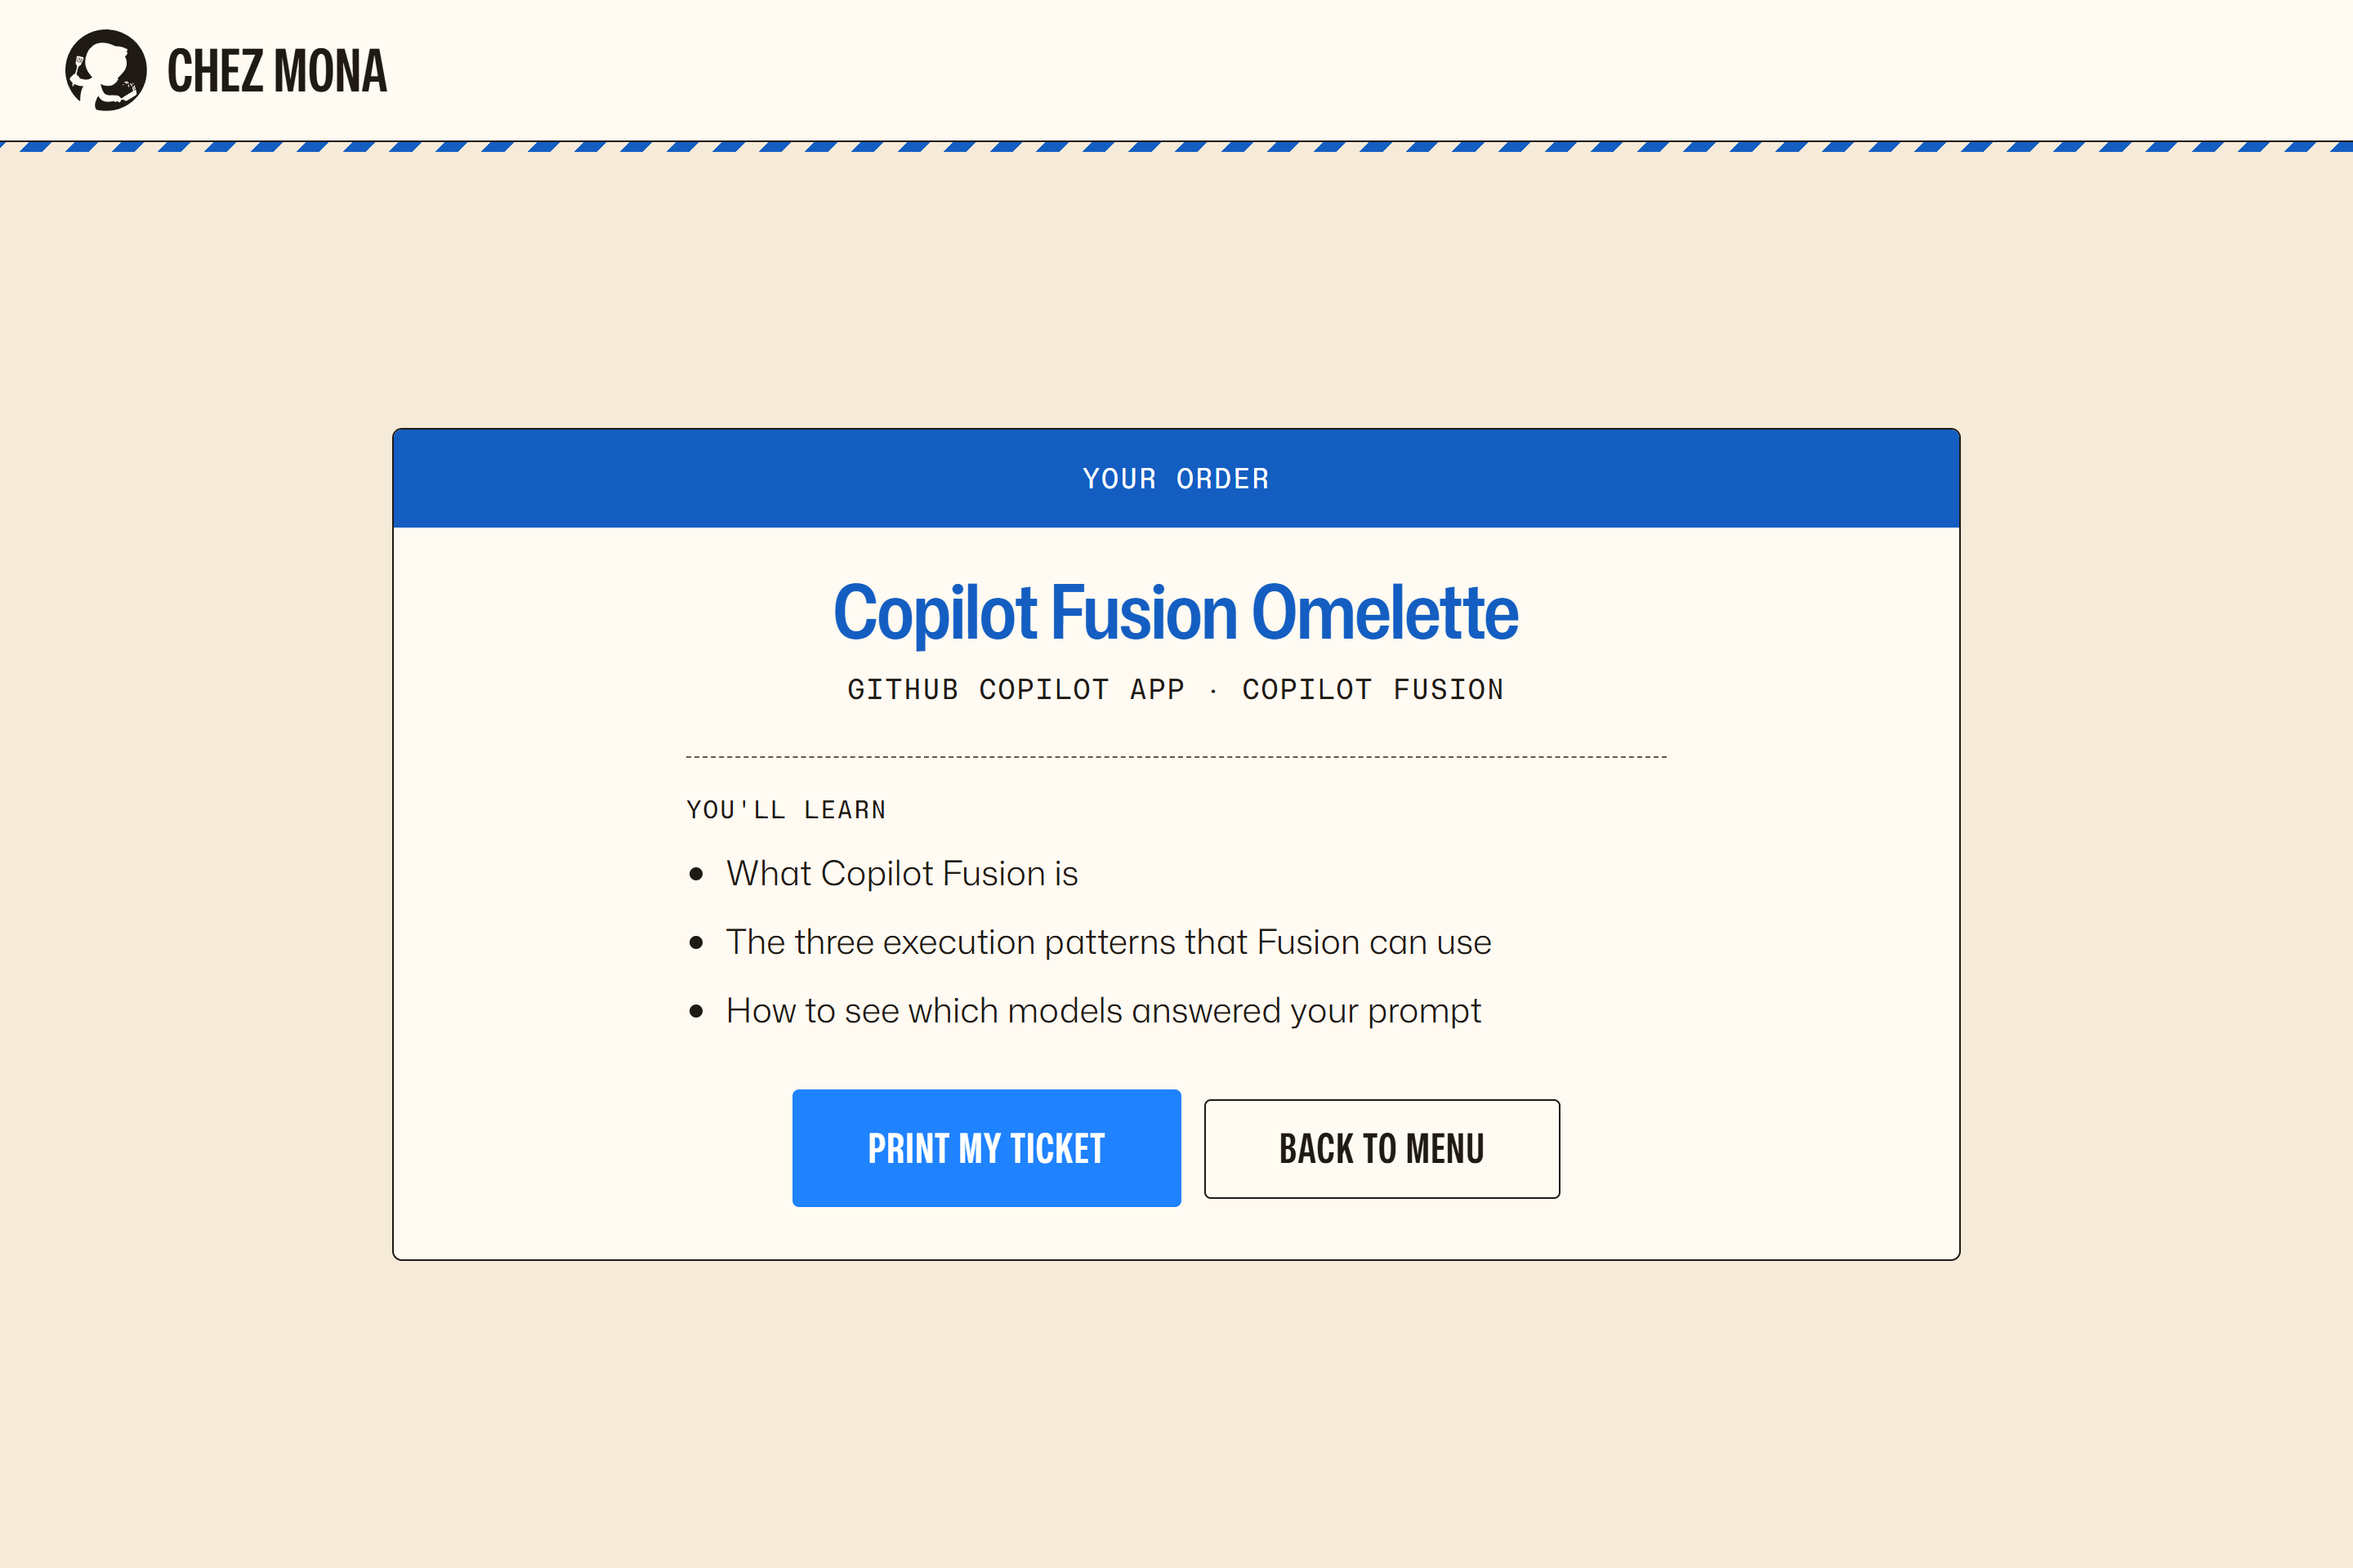
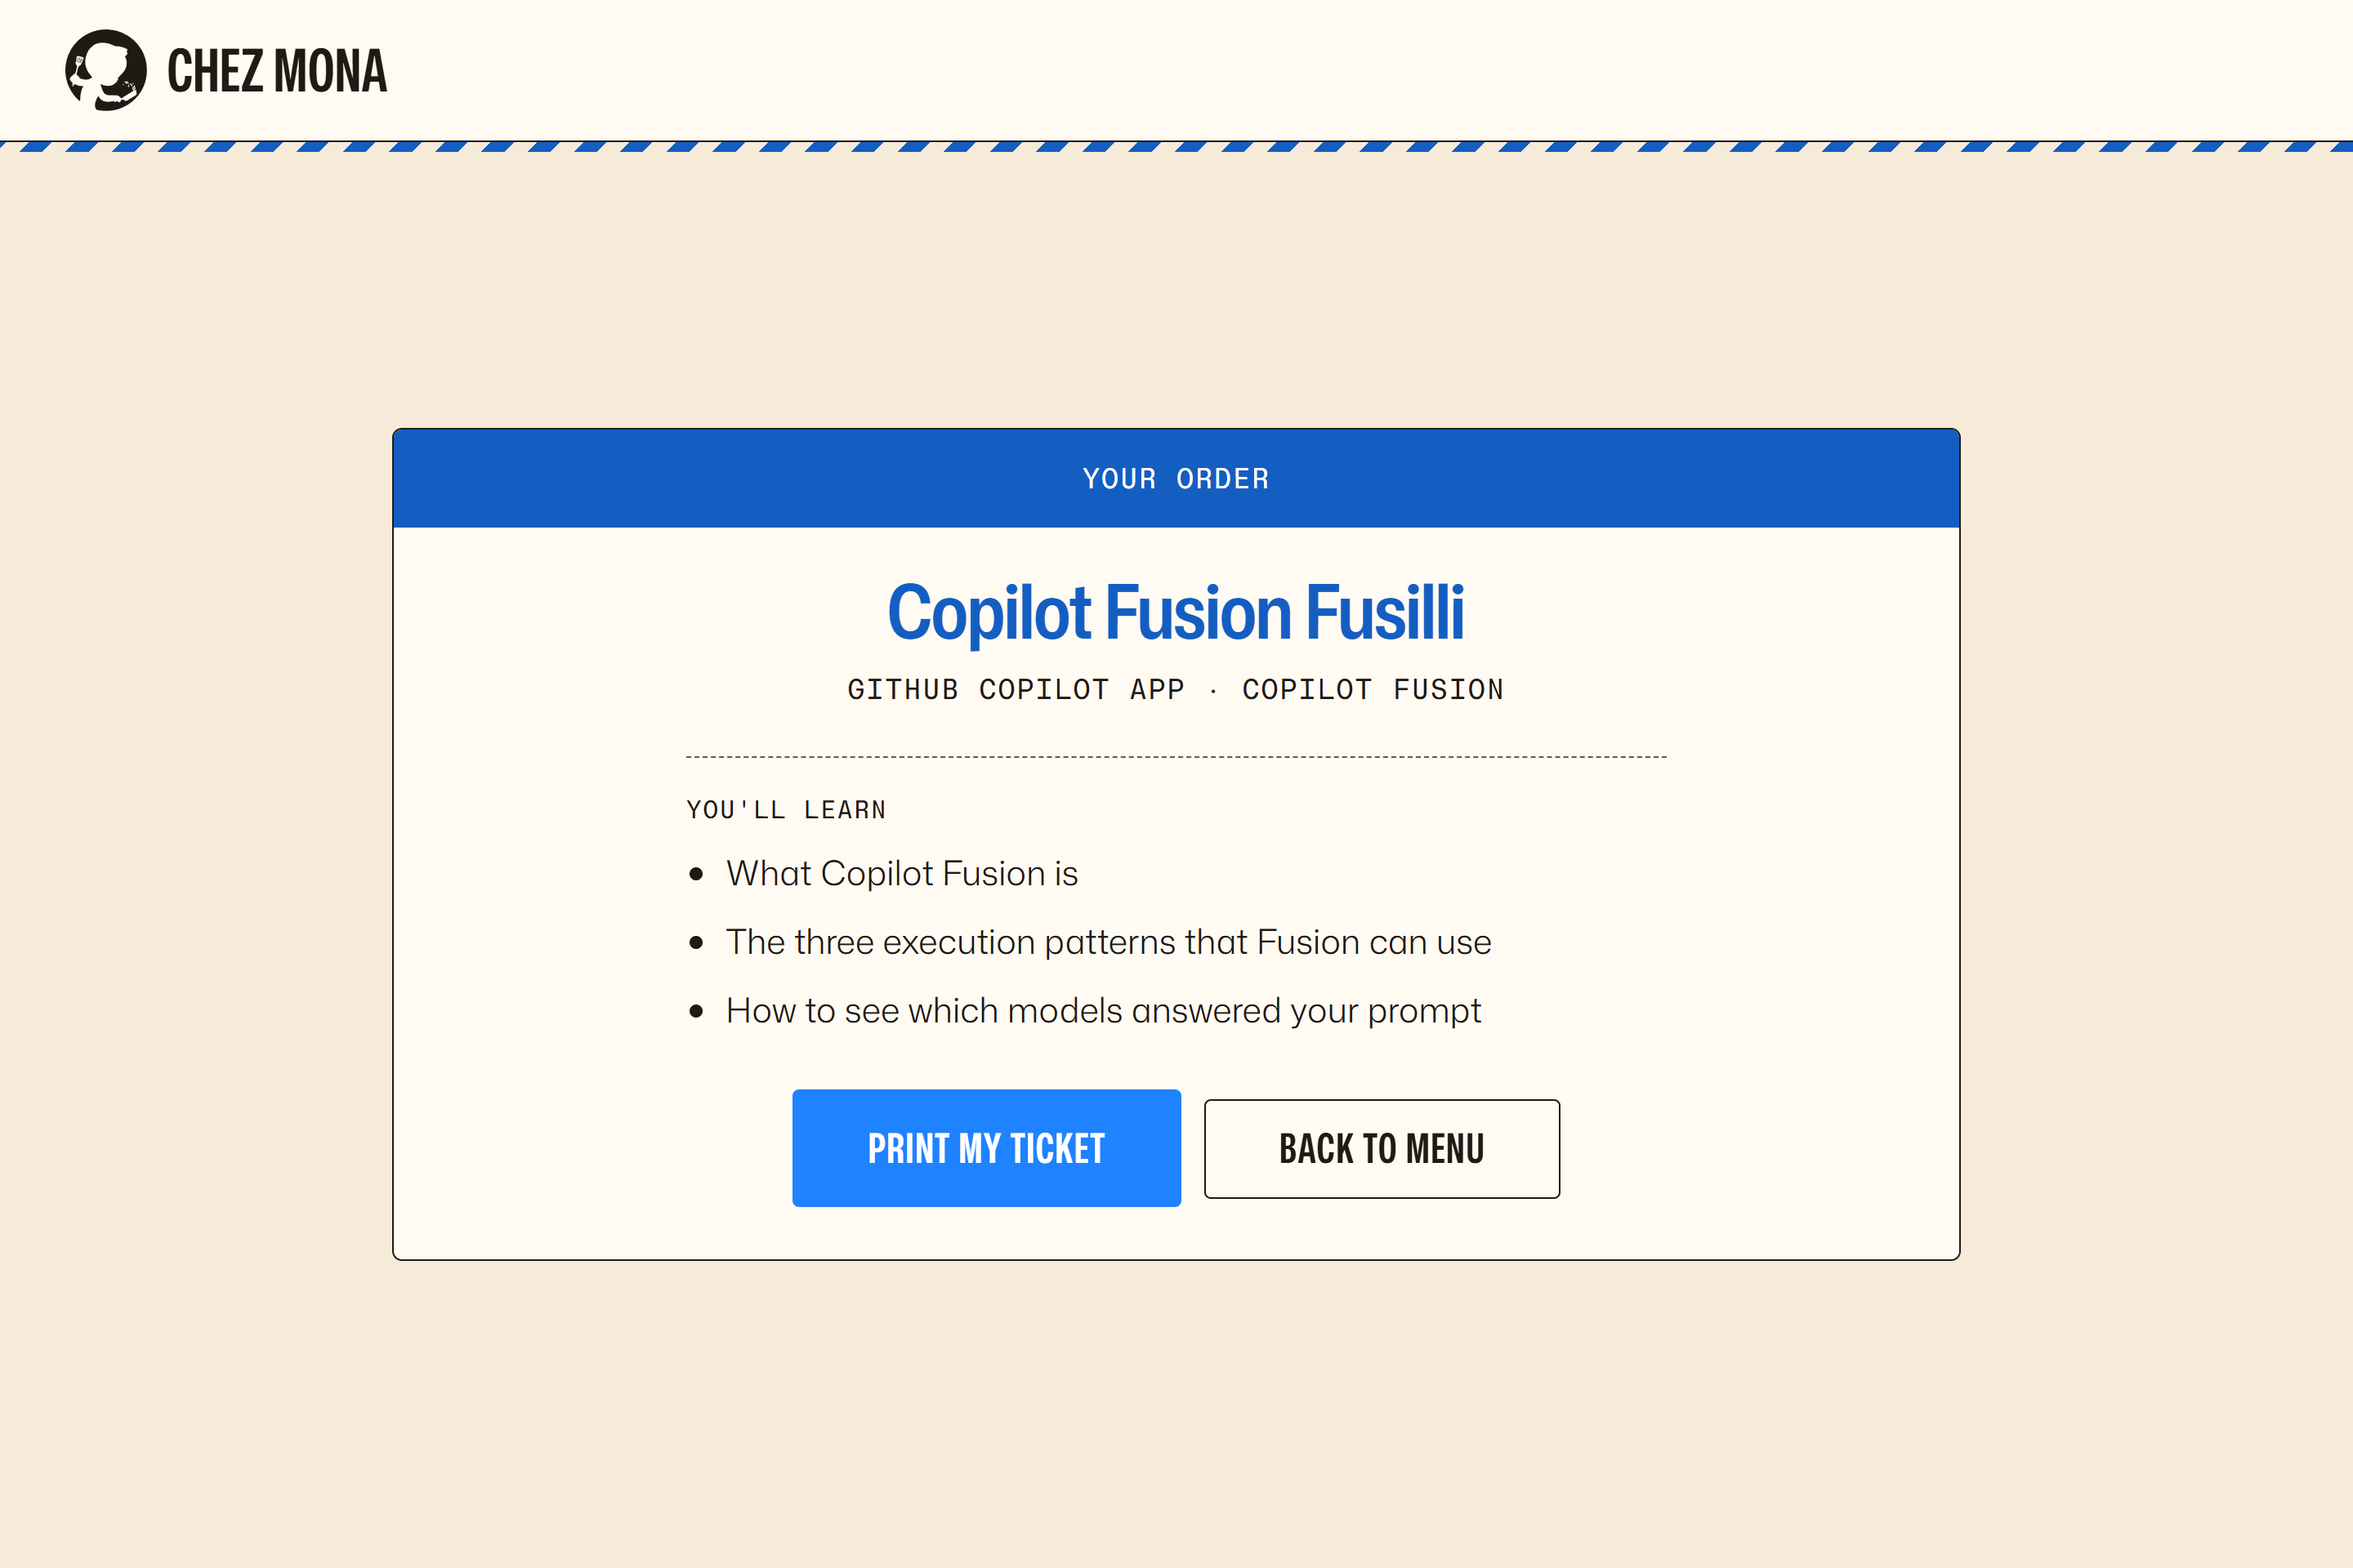
Refresh Fusion Fusilli screenshots

Changed region(s): [[0.3438, 0.375, 0.6562, 0.4062]]

diff --git a/launcher/docs/how-it-works.md b/launcher/docs/how-it-works.md
@@ -17,23 +17,23 @@ flowchart LR
     G --> R([Receipt])
 ```
 
-These screenshots show the Omelette lab. The other dishes use the same screens with their own content from [`content/labs.json`](../content/labs.json).
+These screenshots show the Copilot Fusion Fusilli lab. The other dishes use the same screens with their own content from [`content/labs.json`](../content/labs.json).
 
 ### Fridge
 
 | 1. Pick a dish | 2. Confirm and print a ticket |
 |---|---|
-| ![Fridge menu with the four dishes](screenshots/fridge-menu.png) | ![Fridge confirm screen for the Omelette](screenshots/fridge-confirm.png) |
+| ![Fridge menu with the four dishes](screenshots/fridge-menu.png) | ![Fridge confirm screen for the Fusilli](screenshots/fridge-confirm.png) |
 
 ### Cooking station
 
 | 3. Scan the ticket | 4. Read the intro |
 |---|---|
-| ![Station scan screen](screenshots/station-scan.png) | ![Omelette intro](screenshots/station-intro.png) |
+| ![Station scan screen](screenshots/station-scan.png) | ![Fusilli intro](screenshots/station-intro.png) |
 
 | 5. Follow the steps | 6. Answer the quiz |
 |---|---|
-| ![Omelette steps](screenshots/station-steps.png) | ![Quiz question](screenshots/station-quiz.png) |
+| ![Fusilli steps](screenshots/station-steps.png) | ![Quiz question](screenshots/station-quiz.png) |
 
 | 7. Wrap up | 8. Take the receipt |
 |---|---|
